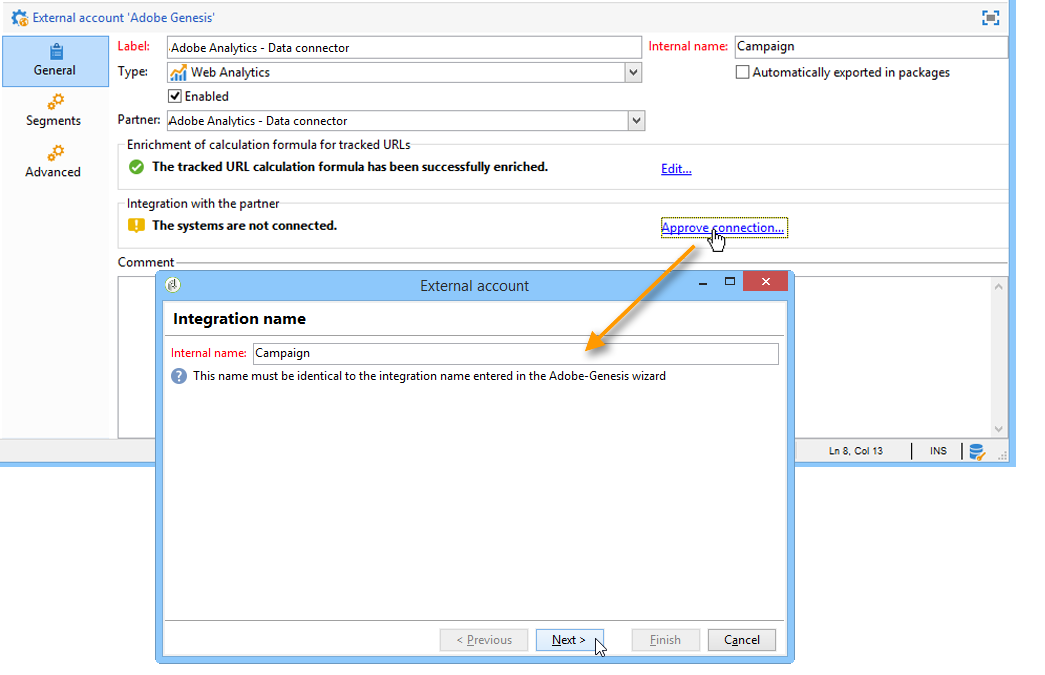
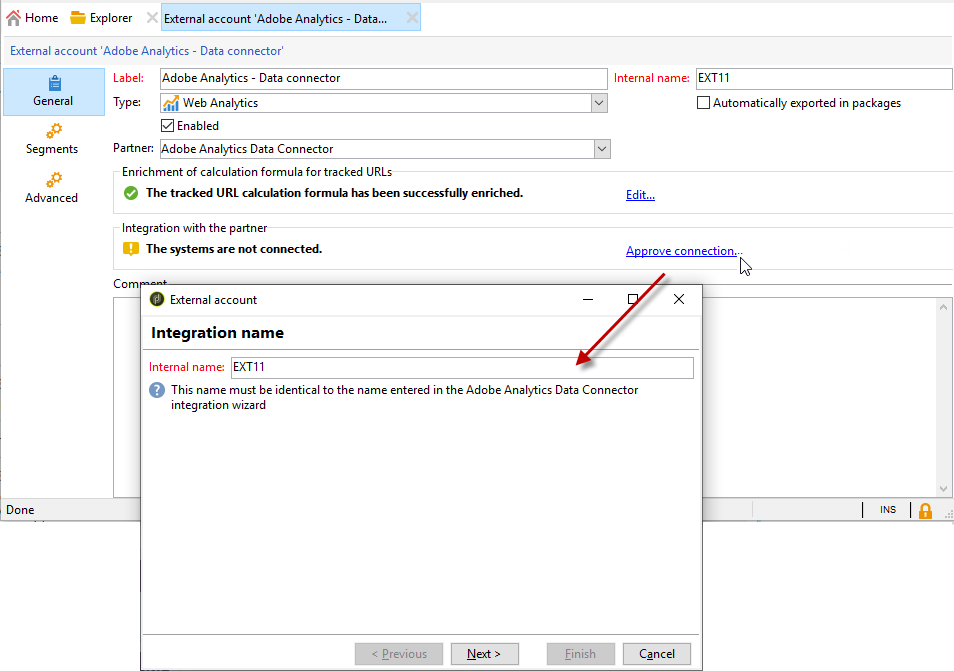
DOCAC 3829
Replace genesis mention

Changed region(s): [[0.0, 0.0, 0.9727, 1.0], [0.9119, 0.7154, 1.0, 0.8048], [0.0, 0.7452, 0.0304, 0.775]]

diff --git a/help/workflow/using/web-analytics.md b/help/workflow/using/web-analytics.md
@@ -30,7 +30,7 @@ The workflows detailed below are installed with the **Web Analytics connectors**
   <tr> 
    <td> <span class="uicontrol">Sending of indicators and campaign attributes</span> <br /> </td> 
    <td> <span class="uicontrol">webAnalyticsSendMetrics</span> <br /> </td> 
-   <td> This workflow lets you send email campaign indicators from Adobe Campaign to Adobe Experience Cloud Suite via the Adobe® Genesis connector. The indicators concerned are as follows: <strong>Sent</strong> (iSent), <strong>Total count of opens</strong> (iTotalRecipientOpen), <strong>Total number of recipients who clicked</strong> (iTotalRecipientClick), <strong>Errors</strong> (iError), <strong>Opt-Out</strong> (opt-out) (iOptOut).<br /> </td> 
+   <td> This workflow lets you send email campaign indicators from Adobe Campaign to Adobe Experience Cloud Suite via the Adobe Analytics Data Connector. The indicators concerned are as follows: <strong>Sent</strong> (iSent), <strong>Total count of opens</strong> (iTotalRecipientOpen), <strong>Total number of recipients who clicked</strong> (iTotalRecipientClick), <strong>Errors</strong> (iError), <strong>Opt-Out</strong> (opt-out) (iOptOut).<br /> </td> 
   </tr> 
   <tr> 
    <td> <span class="uicontrol">Identification of converted contacts</span> <br /> </td> 
